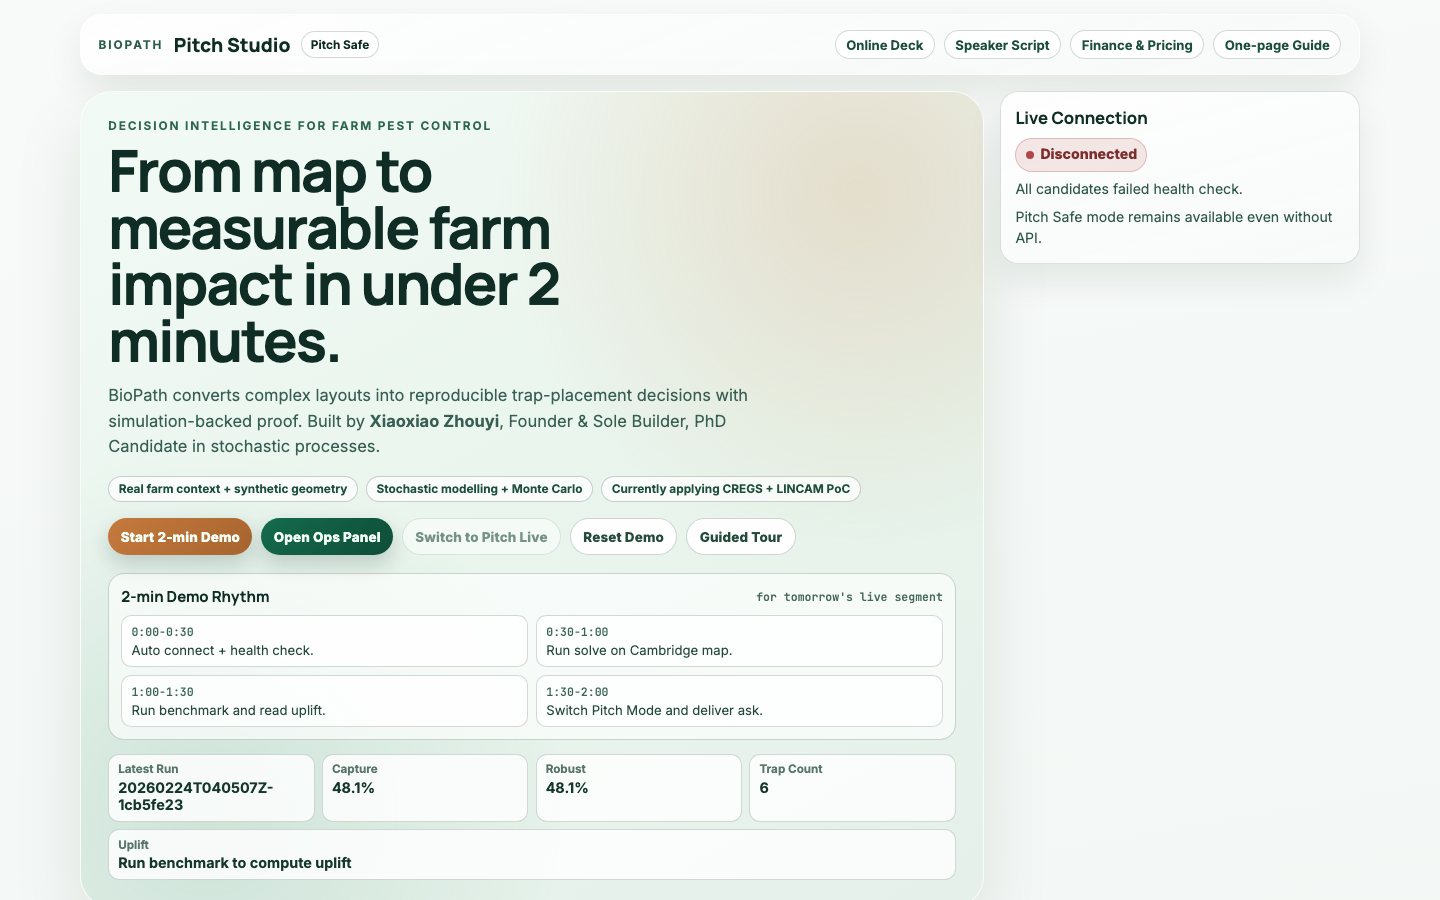
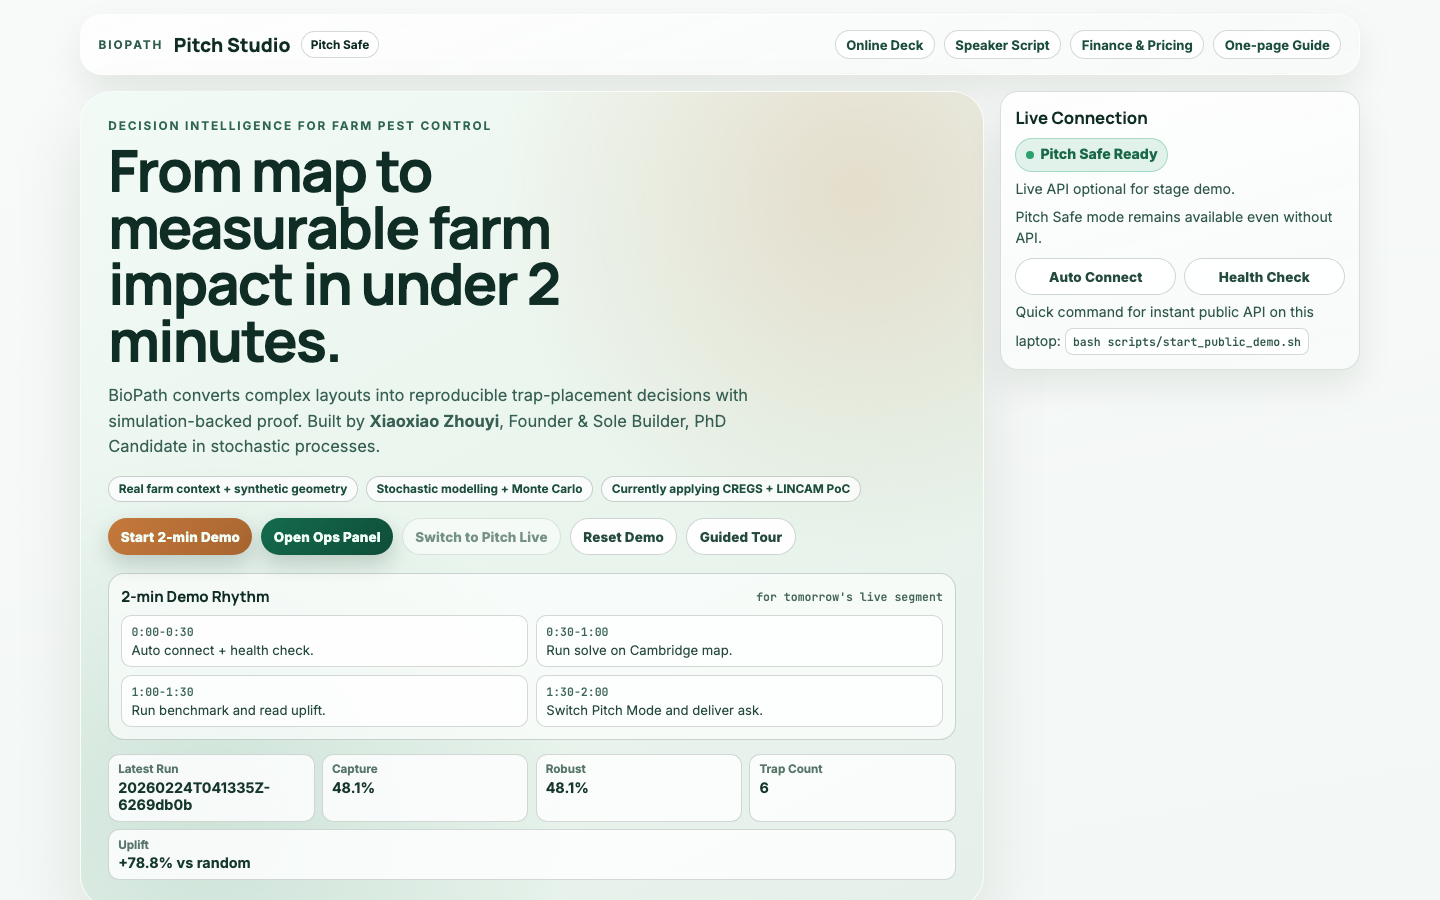
Strengthen proof contract, align deck-script flow, and improve stage-safe connection UX

diff --git a/site/pitch-deck.html b/site/pitch-deck.html
@@ -87,6 +87,13 @@
         font-weight: 700;
       }
 
+      .mapline {
+        margin: 0.18rem 0 0;
+        font-family: "JetBrains Mono", monospace;
+        font-size: 0.74rem;
+        color: #4f6f63;
+      }
+
       h1, h2, h3 {
         margin: 0;
         font-family: "Manrope", sans-serif;
@@ -236,6 +243,7 @@
     <main class="deck">
       <section class="slide" id="s1">
         <p class="kicker">Slide 1 · What we do</p>
+        <p class="mapline">Script alignment: Segment 1 + Segment 2</p>
         <h1>BioPath turns farm maps into measurable trap-placement decisions.</h1>
         <p class="two-line">
           Two-line investor definition: we convert one layout into optimized trap coordinates with quantified uplift,
@@ -263,14 +271,15 @@
 
       <section class="slide" id="s2">
         <p class="kicker">Slide 2 · Problem + customer</p>
+        <p class="mapline">Script alignment: Segment 2</p>
         <h2>Manual trap placement is inconsistent, hard to audit, and loses performance in complex layouts.</h2>
         <div class="grid2">
           <article class="card">
             <h3>Who feels this pain</h3>
             <ul>
-              <li>Farm operations teams handling irregular site geometry.</li>
-              <li>Pest-control operators managing multiple properties.</li>
-              <li>Funding reviewers demanding reproducible evidence.</li>
+              <li><strong>Primary customer:</strong> farm operations teams handling irregular site geometry.</li>
+              <li><strong>Primary customer:</strong> pest-control operators managing multiple properties.</li>
+              <li><strong>Secondary stakeholder:</strong> managers/procurement teams needing auditable decisions.</li>
             </ul>
           </article>
           <article class="card">
@@ -286,6 +295,7 @@
 
       <section class="slide" id="s3">
         <p class="kicker">Slide 3 · Product</p>
+        <p class="mapline">Script alignment: Segment 3</p>
         <h2>Source -> model -> solve is transparent and reproducible.</h2>
         <div class="grid2">
           <figure>
@@ -295,10 +305,10 @@
           <article class="card">
             <h3>User flow in 2 minutes</h3>
             <ol>
-              <li>Load map JSON and trap budget.</li>
+              <li>Upload a site map/layout and set trap budget.</li>
               <li>Run solve for trap coordinates.</li>
               <li>Run benchmark against random baseline.</li>
-              <li>Read capture, robust score, and uplift.</li>
+              <li>Read capture, robust score, uplift, and export run artifact.</li>
             </ol>
           </article>
         </div>
@@ -306,6 +316,7 @@
 
       <section class="slide" id="s4">
         <p class="kicker">Slide 4 · Technical edge</p>
+        <p class="mapline">Script alignment: Segment 4</p>
         <h2>Originality is robust optimization under uncertainty, not static rule heuristics.</h2>
         <div class="grid2">
           <article class="card">
@@ -320,6 +331,7 @@
           <article class="card">
             <h3>Why this is defensible</h3>
             <ul>
+              <li><strong>Robust capture definition:</strong> conservative performance across uncertainty scenarios.</li>
               <li>Evidence is reproducible run-to-run.</li>
               <li>Decisions are auditable for operators and judges.</li>
               <li>Research background aligns directly with movement uncertainty.</li>
@@ -330,6 +342,7 @@
 
       <section class="slide" id="s5">
         <p class="kicker">Slide 5 · Traction velocity</p>
+        <p class="mapline">Script alignment: Segment 6</p>
         <h2>Early traction is execution speed and evidence quality.</h2>
         <div class="grid2">
           <article class="card">
@@ -342,19 +355,23 @@
             </ul>
           </article>
           <article class="card">
-            <h3>Demo evidence snapshot</h3>
+            <h3>Demo proof contract (same k, benchmarked)</h3>
             <div class="grid3" style="margin-top:0.45rem;">
-              <div class="metric"><span>Capture</span><strong>48.1%</strong></div>
-              <div class="metric"><span>Robust</span><strong>48.1%</strong></div>
-              <div class="metric"><span>Trap count</span><strong>6</strong></div>
+              <div class="metric"><span>Optimized capture</span><strong>54.3%</strong></div>
+              <div class="metric"><span>Random baseline</span><strong>30.4%</strong></div>
+              <div class="metric"><span>Uplift</span><strong>+78.8%</strong></div>
+              <div class="metric"><span>Robust capture</span><strong>54.3%</strong></div>
+              <div class="metric"><span>MC runs</span><strong>N = 140</strong></div>
+              <div class="metric"><span>Trap budget</span><strong>k = 6</strong></div>
             </div>
-            <p class="caption" style="margin-top:0.52rem;">Benchmarked uplift is shown live when API is available; stable curated proof remains available offline.</p>
+            <p class="caption" style="margin-top:0.52rem;">Pitch Safe keeps this full proof contract visible offline: optimized vs baseline + uplift + robust + MC.</p>
           </article>
         </div>
       </section>
 
       <section class="slide" id="s6">
         <p class="kicker">Slide 6 · Market + pricing</p>
+        <p class="mapline">Script alignment: Segment 7</p>
         <h2>Bottom-up model: paid pilot -> annual subscription -> portfolio expansion.</h2>
         <div class="grid2">
           <article class="card">
@@ -380,12 +397,14 @@
 
       <section class="slide" id="s7">
         <p class="kicker">Slide 7 · Finance + funding path</p>
+        <p class="mapline">Script alignment: Segment 8</p>
         <h2>Finance is practical: realistic costs, explicit milestones, and fit-for-stage funding.</h2>
         <div class="grid2">
           <article class="card">
             <h3>Near-term finance baseline</h3>
             <ul>
               <li><strong>Year-1 cost base:</strong> £28k (people + cloud + field ops).</li>
+              <li><strong>Boundary:</strong> founder build time is in-kind at this stage; £28k tracks cash operating costs.</li>
               <li><strong>Milestone horizon:</strong> 18-24 months.</li>
               <li><strong>Outcome targets:</strong> repeatable uplift evidence + recurring contracts.</li>
             </ul>
@@ -408,6 +427,7 @@
 
       <section class="slide" id="s8">
         <p class="kicker">Slide 8 · Team + explicit ask</p>
+        <p class="mapline">Script alignment: Segment 10</p>
         <h2>Execution trust comes from founder-problem fit and a direct ask tied to outcomes.</h2>
         <div class="grid2">
           <article class="card">

diff --git a/site/pitch-script.html b/site/pitch-script.html
@@ -242,7 +242,7 @@
 
         <div class="timeline">
           <article class="item">
-            <p class="time">0:00-0:50 · Segment 1</p>
+            <p class="time">0:00-0:50 · Segment 1 · Deck Slide 1</p>
             <p class="title">Clear definition in two lines</p>
             <span class="tag">Criteria: 1 + 4</span>
             <p class="line"><strong>Say:</strong> "BioPath turns a farm map into optimized trap coordinates with measurable uplift, so placement becomes evidence-based instead of guesswork."</p>
@@ -254,7 +254,7 @@
           </article>
 
           <article class="item">
-            <p class="time">0:50-1:40 · Segment 2</p>
+            <p class="time">0:50-1:40 · Segment 2 · Deck Slide 2</p>
             <p class="title">Concrete scene, not abstract description</p>
             <span class="tag">Criteria: 1 + 2</span>
             <p class="line"><strong>Say:</strong> "In a Cambridge-style farm layout, teams repeatedly miss one feed-corridor route and one storage-edge bottleneck under manual placement. In one run, BioPath returns six specific trap points and a benchmark-ready proof output."</p>
@@ -267,7 +267,7 @@
           </article>
 
           <article class="item">
-            <p class="time">1:40-2:35 · Segment 3</p>
+            <p class="time">1:40-2:35 · Segment 3 · Deck Slide 3</p>
             <p class="title">Real context and source attribution</p>
             <span class="tag">Criteria: 1 + 2</span>
             <p class="line"><strong>Say:</strong> "This real farm context image is from Cambridge University Farm, sourced from a public Wikimedia record. We use public imagery as contextual grounding, not as private telemetry."</p>
@@ -279,7 +279,7 @@
           </article>
 
           <article class="item">
-            <p class="time">2:35-3:30 · Segment 4</p>
+            <p class="time">2:35-3:30 · Segment 4 · Deck Slide 4</p>
             <p class="title">How it works under the hood</p>
             <span class="tag">Criteria: 1 + 4</span>
             <p class="line"><strong>Say:</strong> "The technical flow is map to graph representation, stochastic movement modelling, optimization under a fixed trap budget, then Monte Carlo benchmarking against random placement."</p>
@@ -291,7 +291,7 @@
           </article>
 
           <article class="item">
-            <p class="time">3:30-4:20 · Segment 5</p>
+            <p class="time">3:30-4:20 · Segment 5 · Deck Slide 8 (team credibility preface)</p>
             <p class="title">Team credibility and execution fit</p>
             <span class="tag">Criteria: 1 + 4</span>
             <p class="line"><strong>Say:</strong> "I am Xiaoxiao Zhouyi, Founder and Sole Builder of BioPath, and a PhD Candidate in stochastic processes with direct relevance to movement uncertainty modelling."</p>
@@ -302,7 +302,7 @@
           </article>
 
           <article class="item">
-            <p class="time">4:20-5:20 · Segment 6</p>
+            <p class="time">4:20-5:20 · Segment 6 · Deck Slide 5</p>
             <p class="title">Traction and progress speed</p>
             <span class="tag">Criteria: 2 + 4</span>
             <p class="line"><strong>Say:</strong> "At this stage, traction is velocity plus evidence quality. We shipped a full solve-benchmark pipeline, stable API endpoints, and a presentation-ready web interface that can run in safe mode or live mode."</p>
@@ -315,7 +315,7 @@
           </article>
 
           <article class="item">
-            <p class="time">5:20-6:20 · Segment 7</p>
+            <p class="time">5:20-6:20 · Segment 7 · Deck Slide 6</p>
             <p class="title">Market logic and pricing rationale</p>
             <span class="tag">Criteria: 2 + 3 + 5</span>
             <p class="line"><strong>Say:</strong> "Our go-to-market is bottom-up. We start with paid pilots for farms and operators, prove uplift, then convert successful pilots to annual subscriptions. We do not rely on top-down market slogans."</p>
@@ -328,7 +328,7 @@
           </article>
 
           <article class="item">
-            <p class="time">6:20-7:00 · Segment 8</p>
+            <p class="time">6:20-7:00 · Segment 8 · Deck Slide 7</p>
             <p class="title">Finance reality and funding pathway</p>
             <span class="tag">Criteria: 3 + 5</span>
             <p class="line"><strong>Say:</strong> "Our year-one cost baseline is £28k, covering people time, cloud, and pilot execution essentials. The goal is disciplined evidence generation, not premature scaling burn."</p>
@@ -341,7 +341,7 @@
           </article>
 
           <article class="item">
-            <p class="time">7:00-9:00 · Segment 9</p>
+            <p class="time">7:00-9:00 · Segment 9 · Pitch Studio live demo block</p>
             <p class="title">Two-minute live demo script</p>
             <span class="tag">Criteria: 1 + 4</span>
             <p class="line"><strong>Say while clicking:</strong> "I start from the default Cambridge-style map. First, I run solve to get trap coordinates. Then I run benchmark to compare against random placement under the same trap budget."</p>
@@ -355,7 +355,7 @@
           </article>
 
           <article class="item">
-            <p class="time">9:00-10:00 · Segment 10</p>
+            <p class="time">9:00-10:00 · Segment 10 · Deck Slide 8</p>
             <p class="title">Explicit ask and milestone contract</p>
             <span class="tag">Criteria: 3 + 5</span>
             <p class="line"><strong>Say:</strong> "Our ask is three-part: two pilot introductions, practical data access for one 8-week trial, and support for a £5k-£20k LINCAM PoC application."</p>

diff --git a/site/app.js b/site/app.js
@@ -12,6 +12,7 @@ const UI_MODES = {
 
 const DEFAULT_MAP_URL = "./data/cambridge-photo-informed-map.json";
 const CURATED_LATEST_URL = "./data/latest.json";
+const CURATED_BENCHMARK_URL = "./data/latest-benchmark.json";
 const CURATED_RUNS_URL = "./data/runs.json";
 
 const DEFAULT_ARTIFACTS = {
@@ -193,12 +194,16 @@ function setApiStatus(message) {
 
 function setConnectionState(mode, details) {
   const pill = $("connectionPill");
-  pill.classList.remove("connected", "disconnected", "checking");
+  pill.classList.remove("connected", "disconnected", "checking", "safe");
 
   if (mode === "connected") {
     pill.classList.add("connected");
     pill.textContent = "Connected";
     state.connected = true;
+  } else if (mode === "safe") {
+    pill.classList.add("safe");
+    pill.textContent = "Pitch Safe Ready";
+    state.connected = false;
   } else if (mode === "checking") {
     pill.classList.add("checking");
     pill.textContent = "Checking";
@@ -393,7 +398,7 @@ async function autoDetectAndConnect({ quiet = false } = {}) {
   const candidates = unique([queryApi, storedApi, configApi, ...runtimeApi]);
 
   if (!candidates.length) {
-    setConnectionState("disconnected", "No API configured.");
+    setConnectionState("safe", "No live API configured.");
     showConnectionBanner("API not connected", "Paste your API URL and click Auto Connect.");
     setApiStatus("No API candidate found.");
     return false;
@@ -413,7 +418,7 @@ async function autoDetectAndConnect({ quiet = false } = {}) {
   }
 
   $("apiBase").value = candidates[0] || "";
-  setConnectionState("disconnected", "All candidates failed health check.");
+  setConnectionState("safe", "No healthy live API found.");
   showConnectionBanner("API unreachable", "Use Fix in 1 step or replace API URL, then run Health Check.");
   setApiStatus("Auto-detection failed. You can still run Pitch Safe mode.");
   return false;
@@ -573,6 +578,8 @@ function renderProof(result, benchmark = null) {
 }
 
 function setPitchNarrative(result, benchmark = null) {
+  const trapCount = Array.isArray(result?.traps) ? result.traps.length : Number($("kInput")?.value || 6);
+  const mcRuns = Number($("mcRuns")?.value || 140);
   const cp = typeof result?.capture_probability === "number" ? `${(result.capture_probability * 100).toFixed(1)}%` : "n/a";
   const rb = typeof result?.robust_score === "number" ? `${(result.robust_score * 100).toFixed(1)}%` : "n/a";
 
@@ -583,9 +590,13 @@ function setPitchNarrative(result, benchmark = null) {
     ? benchmark.baseline.mean
     : null;
 
-  let proofLine = `Latest run shows capture probability ${cp} and robust score ${rb}.`;
+  let proofLine = `With k=${trapCount} traps, optimized capture is ${cp} and robust capture is ${rb}.`;
   if (uplift !== null && baseline && baseline > 0) {
-    proofLine += ` Uplift versus random baseline is +${((uplift / baseline) * 100).toFixed(1)}%.`;
+    const baselinePct = `${(baseline * 100).toFixed(1)}%`;
+    const upliftPct = `+${((uplift / baseline) * 100).toFixed(1)}%`;
+    proofLine = `With k=${trapCount} traps, BioPath achieves capture ${cp} vs random baseline ${baselinePct}, delivering uplift ${upliftPct}. Robust capture is ${rb} (conservative performance across uncertainty scenarios), validated with Monte Carlo N=${mcRuns}.`;
+  } else {
+    proofLine += ` Run benchmark to add random baseline and uplift. Robust capture means conservative performance across uncertainty scenarios.`;
   }
 
   const askLine = "We are currently applying CREGS + LINCAM PoC and ask for 2 pilot introductions, one 8-week data access trial, and support for a £5k-£20k PoC application.";
@@ -609,10 +620,17 @@ async function loadCuratedLatest() {
     const res = await fetch(CURATED_LATEST_URL, { cache: "no-store" });
     if (!res.ok) throw new Error("Curated latest not found");
     const data = await res.json();
+    let curatedBenchmark = null;
+    try {
+      const bRes = await fetch(CURATED_BENCHMARK_URL, { cache: "no-store" });
+      if (bRes.ok) curatedBenchmark = await bRes.json();
+    } catch (_) {
+      curatedBenchmark = null;
+    }
     state.latestResult = data;
-    state.latestBenchmark = null;
-    renderProof(data, null);
-    setPitchNarrative(data, null);
+    state.latestBenchmark = curatedBenchmark;
+    renderProof(data, curatedBenchmark);
+    setPitchNarrative(data, curatedBenchmark);
     return true;
   } catch (_) {
     setCompareBox("Curated latest dataset is unavailable. Add site/data/latest.json before presenting.");
@@ -1013,6 +1031,7 @@ async function setup() {
   const connected = await autoDetectAndConnect({ quiet: true });
   if (!connected) {
     setApiStatus("Auto-connect failed. Pitch Safe mode is ready with curated evidence.");
+    setConnectionState("safe", "Live API optional for stage demo.");
     setNoApiFriendlyState();
   }
 

diff --git a/site/index.html b/site/index.html
@@ -93,11 +93,11 @@
           <p id="connectionPill" class="status-pill checking">Checking...</p>
           <p id="apiLastChecked" class="muted">No health check yet.</p>
           <p class="small-note">Pitch Safe mode remains available even without API.</p>
-          <div class="side-actions ops-section">
+          <div class="side-actions">
             <button id="autoConnectHero" class="btn btn-ghost">Auto Connect</button>
             <button id="healthCheckHero" class="btn btn-ghost">Health Check</button>
           </div>
-          <p class="small-note ops-section">
+          <p class="small-note">
             Quick command for instant public API on this laptop:
             <code>bash scripts/start_public_demo.sh</code>
           </p>
@@ -145,8 +145,8 @@
 
         <article class="narrative-block">
           <h3>Proof</h3>
-          <p id="narrativeProof">Latest run evidence is loading.</p>
-          <button id="proofCopy" class="copy-btn" data-copy="Latest run shows capture probability and robust score with benchmark uplift versus random baseline.">Copy line</button>
+          <p id="narrativeProof">With k=6 traps, BioPath reports optimized capture and robust capture with random-baseline uplift under Monte Carlo validation.</p>
+          <button id="proofCopy" class="copy-btn" data-copy="With k=6 traps, BioPath reports optimized capture and robust capture with random-baseline uplift under Monte Carlo validation.">Copy line</button>
         </article>
 
         <article class="narrative-block ask">

diff --git a/site/tests/pitch-ui.smoke.spec.js b/site/tests/pitch-ui.smoke.spec.js
@@ -5,7 +5,7 @@ test("offline pitch-safe mode is usable and has no raw fetch errors", async ({ p
 
   await expect(page.locator("h1")).toContainText("farm impact");
   await expect(page.locator("body")).toHaveClass(/ui-pitch-safe/);
-  await expect(page.locator("#connectionPill")).toHaveText(/Disconnected|Checking/);
+  await expect(page.locator("#connectionPill")).toHaveText(/Disconnected|Checking|Pitch Safe Ready/);
 
   await expect(page.locator("#compareBox")).not.toContainText(/Failed to fetch/i);
   await expect(page.locator("#summaryFallback")).toContainText(/one-page guide|Summary link|Pitch Safe/i);

diff --git a/site/app.css b/site/app.css
@@ -428,6 +428,14 @@ body.ui-pitch-live .connection-banner {
 
 .status-pill.connected::before { background: var(--ok); }
 
+.status-pill.safe {
+  background: rgba(31, 158, 107, 0.12);
+  border: 1px solid rgba(31, 158, 107, 0.3);
+  color: #1b6848;
+}
+
+.status-pill.safe::before { background: #2aa16f; }
+
 .status-pill.disconnected {
   background: rgba(178, 69, 69, 0.12);
   border: 1px solid rgba(178, 69, 69, 0.28);

diff --git a/site/finance-pricing.html b/site/finance-pricing.html
@@ -243,7 +243,7 @@
             <strong>35%</strong>
           </article>
         </div>
-        <p class="mono">Replace slots (if needed): pilot_days, support_hours_per_site, cloud_cost_per_site, field_visit_cost.</p>
+        <p class="mono">Cost boundary note: the £28k baseline tracks cash operating costs; founder build time is in-kind at this stage.</p>
       </section>
 
       <section class="block">
